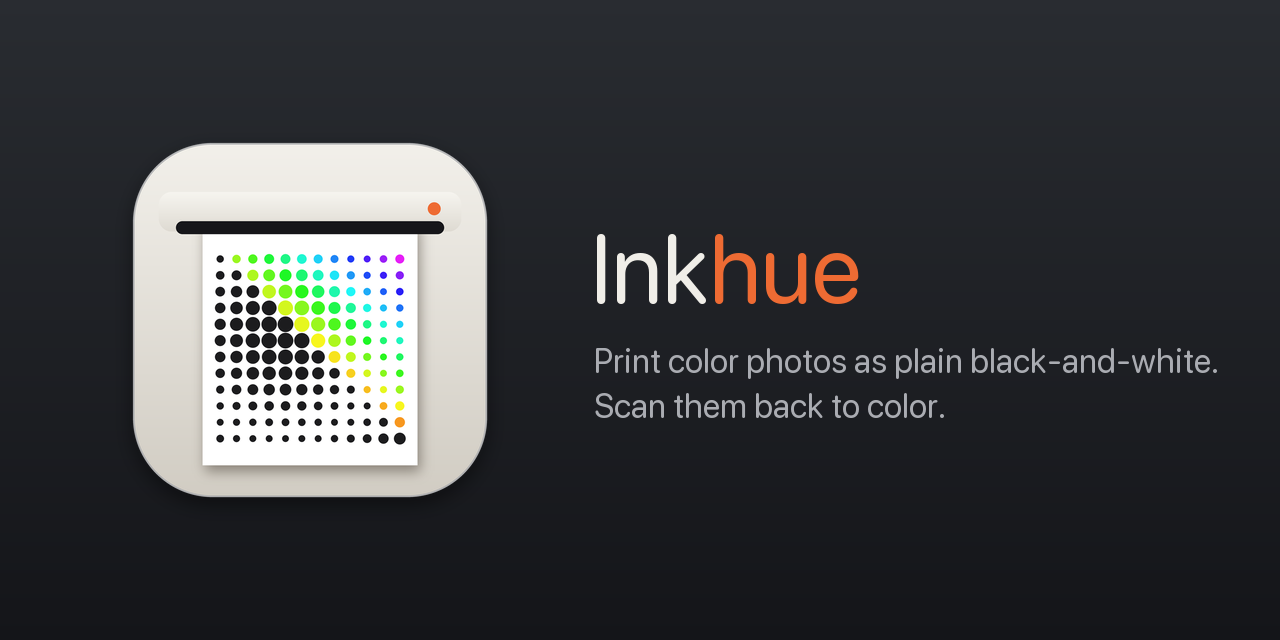
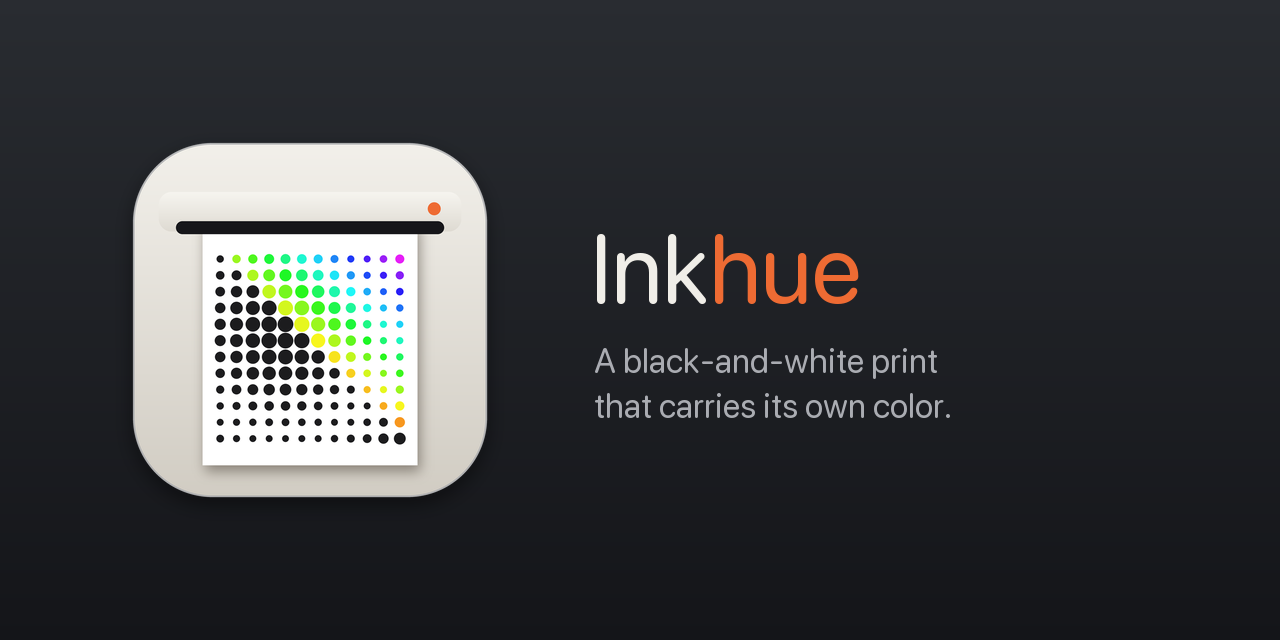
Project website, changelog, code of conduct, new social preview (#21)
* Project website (GitHub Pages), changelog, code of conduct, new social preview

- docs/index.html: a one-page site (hero, reveal animation, gallery, how to
  use, how it works, test results, download), light and dark, mobile-friendly
- CHANGELOG.md for every release so far
- CODE_OF_CONDUCT.md
- Social preview carries the new pitch

* Website: drop the roadmap link

* Website: roadmap section fetched live from issues labelled 'roadmap'

* Website: download button picks the installer for the visitor's system

---------

Changed region(s): [[0.4688, 0.5312, 0.9688, 0.5938], [0.4688, 0.625, 0.75, 0.6562]]

diff --git a/docs/index.html b/docs/index.html
@@ -1,0 +1,163 @@
+<!doctype html>
+<html lang="en">
+<head>
+<meta charset="utf-8">
+<meta name="viewport" content="width=device-width, initial-scale=1">
+<title>Inkhue — a black-and-white print that carries its own color</title>
+<meta name="description" content="Print color photos and documents on any black-and-white printer. Scan them, and Inkhue brings the color back. Free and open source.">
+<meta property="og:title" content="Inkhue">
+<meta property="og:description" content="A black-and-white print that carries its own color.">
+<meta property="og:image" content="https://raw.githubusercontent.com/TonyD365/Inkhue/main/assets/social-preview.png">
+<link rel="icon" href="https://raw.githubusercontent.com/TonyD365/Inkhue/main/assets/icon.png">
+<style>
+:root { --bg:#f6f4ef; --fg:#1d1d20; --muted:#5f6068; --card:#ffffff; --line:#e3e0d8; --accent:#ee6b33; --accent2:#c4511f; }
+@media (prefers-color-scheme: dark) { :root { --bg:#16171a; --fg:#ecebe7; --muted:#a3a4ab; --card:#202227; --line:#2f3138; } }
+* { box-sizing:border-box; }
+body { margin:0; background:var(--bg); color:var(--fg); font:17px/1.6 -apple-system, BlinkMacSystemFont, "Segoe UI", Roboto, sans-serif; }
+a { color:var(--accent); }
+.wrap { max-width:1060px; margin:0 auto; padding:0 20px; }
+header.hero { text-align:center; padding:64px 0 32px; }
+.logo { width:104px; height:104px; }
+h1 { font-size:clamp(40px,7vw,68px); margin:12px 0 4px; letter-spacing:-1px; }
+h1 span { color:var(--accent); }
+.tag { font-size:clamp(20px,3vw,26px); font-weight:600; margin:0 0 10px; }
+.sub { color:var(--muted); max-width:640px; margin:0 auto 26px; }
+.btns { display:flex; gap:12px; justify-content:center; flex-wrap:wrap; }
+.btn { display:inline-block; padding:12px 22px; border-radius:999px; font-weight:700; text-decoration:none; }
+.btn.primary { background:var(--accent); color:#fff; } .btn.primary:hover { background:var(--accent2); }
+.btn.ghost { border:1.5px solid var(--line); color:var(--fg); }
+.reveal { display:block; margin:40px auto 0; width:min(560px,100%); border-radius:14px; box-shadow:0 18px 50px rgba(0,0,0,.25); }
+section { padding:56px 0; border-top:1px solid var(--line); }
+h2 { font-size:30px; margin:0 0 18px; }
+.grid { display:grid; gap:18px; grid-template-columns:repeat(auto-fit,minmax(230px,1fr)); }
+.card { background:var(--card); border:1px solid var(--line); border-radius:14px; padding:20px; }
+.card h3 { margin:0 0 6px; font-size:18px; }
+.card p { margin:0; color:var(--muted); font-size:15px; }
+.done { color:#2e9e5b; font-weight:700; font-size:13px; } .planned { color:var(--accent); font-weight:700; font-size:13px; }
+.num { display:inline-grid; place-items:center; width:30px; height:30px; border-radius:50%; background:var(--accent); color:#fff; font-weight:800; margin-bottom:8px; }
+img.wide { width:100%; border-radius:12px; display:block; }
+.cap { color:var(--muted); font-size:14px; margin-top:8px; text-align:center; }
+table { width:100%; border-collapse:collapse; font-size:15px; }
+td, th { padding:10px 8px; border-bottom:1px solid var(--line); text-align:left; }
+th { color:var(--muted); font-weight:600; }
+footer { padding:40px 0 60px; color:var(--muted); text-align:center; font-size:14px; border-top:1px solid var(--line); }
+</style>
+</head>
+<body>
+<header class="hero wrap">
+  <img class="logo" src="https://raw.githubusercontent.com/TonyD365/Inkhue/main/assets/icon.png" alt="Inkhue icon">
+  <h1>Ink<span>hue</span></h1>
+  <p class="tag">A black-and-white print that carries its own color.</p>
+  <p class="sub">Print a color photo or document on any black-and-white printer — it looks like an ordinary grayscale page. Scan it, and Inkhue brings the color back. Free and open source.</p>
+  <div class="btns">
+    <a class="btn primary" id="dl" href="https://github.com/TonyD365/Inkhue/releases/latest">Download for macOS · Windows · Linux</a>
+    <a class="btn ghost" href="https://github.com/TonyD365/Inkhue">View on GitHub</a>
+  </div>
+  <p class="cap" id="dl-note"></p>
+  <img class="reveal" src="https://raw.githubusercontent.com/TonyD365/Inkhue/main/assets/reveal.gif" alt="A black-and-white printout being scanned back into color">
+</header>
+
+<section class="wrap">
+  <h2>See it</h2>
+  <img class="wide" src="https://raw.githubusercontent.com/TonyD365/Inkhue/main/assets/compare.png" alt="Original, black-and-white print, recovered color">
+  <p class="cap">Original · what gets printed (inset: the actual printer dots) · color recovered from the scan, at 2× resolution.</p>
+  <img class="wide" style="margin-top:28px" src="https://raw.githubusercontent.com/TonyD365/Inkhue/main/assets/gallery.png" alt="Three more examples, one written on with a pen">
+  <p class="cap">Bottom row: written on with a pen — the color still comes back, and the handwriting stays.</p>
+  <img class="wide" style="margin-top:28px" src="https://raw.githubusercontent.com/TonyD365/Inkhue/main/assets/document.png" alt="A page of notes recovered in color">
+  <p class="cap">Documents too: highlights, colored text and charts.</p>
+</section>
+
+<section class="wrap">
+  <h2>How to use</h2>
+  <div class="grid">
+    <div class="card"><div class="num">1</div><h3>Install</h3><p>macOS, Windows or Ubuntu/Debian installer. Updates itself.</p></div>
+    <div class="card"><div class="num">2</div><h3>Hide color</h3><p>Load a photo, image or PDF. Inkhue makes the black-and-white page, as large as your paper allows.</p></div>
+    <div class="card"><div class="num">3</div><h3>Print</h3><p>From Inkhue's print panel at 100 % scale, on any black-and-white printer.</p></div>
+    <div class="card"><div class="num">4</div><h3>Reveal color</h3><p>Scan in grayscale at 600 dpi (400 at least). The color comes back — export it as PNG, JPEG or PDF.</p></div>
+  </div>
+  <img class="wide" style="margin-top:28px; max-width:760px; margin-left:auto; margin-right:auto" src="https://raw.githubusercontent.com/TonyD365/Inkhue/main/assets/screenshot.png" alt="The Inkhue app">
+</section>
+
+<section class="wrap">
+  <h2>How it works</h2>
+  <div class="grid">
+    <div class="card"><h3>Dots carry data</h3><p>Every pixel is a 4×4 cell of printer dots. How many dots are inked sets the gray; which corner the ink leans towards stores 2 bits — about 5.6 KB per square inch.</p></div>
+    <div class="card"><h3>Built to survive</h3><p>Color at 1/8 resolution, Reed-Solomon error correction, repeated across the page and scattered. Smudges, handwriting, tilt and upside-down scans are fine.</p></div>
+    <div class="card"><h3>Neural refiner</h3><p>A small network reads the scan dot by dot and returns the photo at 2× resolution, without grain.</p></div>
+    <div class="card"><h3>Open by design</h3><p>No key, no encryption, no account. Hidden from the eye, not from people. Apache-2.0.</p></div>
+  </div>
+  <p style="margin-top:22px">The full story, step by step, is in the <a href="https://github.com/TonyD365/Inkhue#how-it-works">README</a> and the <a href="https://github.com/TonyD365/Inkhue/wiki">wiki</a>.</p>
+</section>
+
+<section class="wrap" id="roadmap">
+  <h2>Roadmap</h2>
+  <div class="grid" id="roadmap-items"><p class="cap" style="text-align:left">Loading…</p></div>
+  <p class="cap" style="text-align:left">Live from GitHub: issues labelled <code>roadmap</code>.</p>
+</section>
+
+<section class="wrap">
+  <h2>Tested</h2>
+  <table>
+    <tr><th>Condition (simulated print + scan)</th><th>Decoded</th><th>Color error ΔE</th></tr>
+    <tr><td>Typical print and scan</td><td>100 %</td><td>2.5</td></tr>
+    <tr><td>Scan at 400 dpi</td><td>100 %</td><td>3.3</td></tr>
+    <tr><td>Handwriting on the page</td><td>100 %</td><td>3.3</td></tr>
+    <tr><td>Poor print and poor scan</td><td>80 %</td><td>6.7</td></tr>
+  </table>
+  <p class="cap">ΔE ≈ 2 is barely visible. Tried it on a real printer? <a href="https://github.com/TonyD365/Inkhue/issues/new?template=print-scan-report.yml">Share your result</a>.</p>
+</section>
+
+<footer class="wrap">
+  Inkhue is free and open source (Apache-2.0) ·
+  <a href="https://github.com/TonyD365/Inkhue">GitHub</a> ·
+  <a href="https://github.com/TonyD365/Inkhue/discussions">Discussions</a> ·
+  <a href="https://github.com/TonyD365/Inkhue/blob/main/README.zh-CN.md">中文</a>
+</footer>
+<script>
+// Download button: pick the installer for this visitor's system from the latest release.
+(async () => {
+  const btn = document.getElementById("dl"), note = document.getElementById("dl-note");
+  const ua = navigator.userAgent, plat = (navigator.userAgentData && navigator.userAgentData.platform) || navigator.platform || "";
+  let os = /Win/i.test(plat + ua) ? "windows" : /Mac/i.test(plat + ua) ? "macos" : /Linux|X11/i.test(plat + ua) && !/Android/i.test(ua) ? "linux" : null;
+  if (!os) return;  // phones, tablets, unknown: keep the general link
+  let arch = "x64";
+  if (os === "macos") {
+    try {  // Chrome/Edge tell the CPU architecture; Safari doesn't, and nearly every Mac sold since 2021 is Apple silicon
+      const h = navigator.userAgentData && await navigator.userAgentData.getHighEntropyValues(["architecture"]);
+      arch = h && h.architecture === "x86" ? "x64" : "arm64";
+    } catch (e) { arch = "arm64"; }
+  }
+  const key = `${os}-${arch}`;
+  const label = {"macos-arm64": "macOS (Apple silicon)", "macos-x64": "macOS (Intel)", "windows-x64": "Windows", "linux-x64": "Ubuntu / Debian"}[key];
+  try {
+    const rel = await (await fetch("https://api.github.com/repos/TonyD365/Inkhue/releases/latest")).json();
+    const ext = os === "macos" ? ".pkg" : os === "windows" ? "-setup.exe" : ".deb";
+    const asset = (rel.assets || []).find(a => a.name.includes(key) && a.name.endsWith(ext));
+    if (!asset) return;
+    btn.href = asset.browser_download_url;
+    btn.textContent = `Download for ${label} · ${rel.tag_name}`;
+    const other = os === "macos" ? (arch === "arm64" ? "Intel Mac" : "Apple silicon Mac") + ", " : "";
+    note.innerHTML = `${(asset.size / 1048576).toFixed(0)} MB · free. <a href="https://github.com/TonyD365/Inkhue/releases/latest">${other}Windows, Linux and other versions</a>`;
+  } catch (e) { /* keep the general link */ }
+})();
+
+// Roadmap, fetched live: open issues labelled "roadmap" are planned, closed-as-completed ones are done.
+(async () => {
+  const box = document.getElementById("roadmap-items");
+  const esc = t => t.replace(/[&<>"]/g, c => ({"&": "&amp;", "<": "&lt;", ">": "&gt;", '"': "&quot;"}[c]));
+  try {
+    const r = await fetch("https://api.github.com/repos/TonyD365/Inkhue/issues?labels=roadmap&state=all&per_page=50");
+    if (!r.ok) throw new Error(r.status);
+    const items = (await r.json()).filter(i => !i.pull_request && !(i.state === "closed" && i.state_reason !== "completed"));
+    if (!items.length) { box.innerHTML = '<p class="cap" style="text-align:left">The roadmap will be published soon.</p>'; return; }
+    items.sort((a, b) => (a.state === b.state ? 0 : a.state === "open" ? -1 : 1));
+    box.innerHTML = items.map(i => `<a class="card" href="${i.html_url}" style="text-decoration:none;color:inherit">
+      <span class="${i.state === "open" ? "planned" : "done"}">${i.state === "open" ? "PLANNED" : "✓ DONE"}</span>
+      <h3>${esc(i.title)}</h3></a>`).join("");
+  } catch (e) {
+    box.innerHTML = '<p class="cap" style="text-align:left">See the <a href="https://github.com/TonyD365/Inkhue/issues?q=label%3Aroadmap">roadmap on GitHub</a>.</p>';
+  }
+})();
+</script>
+</body>
+</html>

diff --git a/scripts/make_icon.py b/scripts/make_icon.py
@@ -102,7 +102,7 @@ def social(icon_img):
             continue
     d.text((590, 210), "Ink", font=font, fill=(240, 238, 232))
     d.text((590 + d.textlength("Ink", font=font), 210), "hue", font=font, fill=ACCENT)
-    d.text((594, 340), "Print color photos as plain black-and-white.\nScan them back to color.",
+    d.text((594, 340), "A black-and-white print\nthat carries its own color.",
            font=small, fill=(170, 172, 178), spacing=12)
     return bg.convert("RGB")
 

diff --git a/CHANGELOG.md b/CHANGELOG.md
@@ -1,0 +1,27 @@
+# Changelog
+
+Every release is on [GitHub Releases](https://github.com/TonyD365/Inkhue/releases) with installers for macOS,
+Windows and Linux. Pages printed with any version decode with every later version.
+
+## 1.2.1
+- Scans at **400 dpi** decode reliably (was 1200 dpi): the page grid is measured from the timing track's spectrum,
+  and the dots are read with cubic interpolation. Poor prints and scans decode about twice as often.
+- Recommended scan: 600 dpi, at least 400.
+
+## 1.2.0
+- **Documents** (mostly white pages) work: every cell keeps at least one dot so blank paper carries data.
+- Neural refiner retrained on photos plus documents: page color error on a real worksheet nearly halved.
+- Damaged areas stay gray instead of random color; upside-down and sideways scans decode.
+- Clear messages for pages without hidden color and for too-coarse scans; scanner and secure-print hints.
+
+## 1.1.1
+- Maintenance: CI and pull-request labelling fixes. No changes to the app.
+
+## 1.1.0
+- **ColorHide is now Inkhue.**
+- Refiner retrained on 8× more photos; pen strokes across the frame no longer stop decoding.
+- *Fill the paper*, a live print preview with all print settings, faster decoding.
+
+## 1.0.0
+- First release: hide a photo's color in a black-and-white print and recover it from a scan; printer-style app,
+  installers, automatic updates.

diff --git a/CODE_OF_CONDUCT.md b/CODE_OF_CONDUCT.md
@@ -1,0 +1,15 @@
+# Code of conduct
+
+Inkhue is a small, friendly project. Everyone is welcome here — whatever your experience, background or language.
+Questions in Chinese, English or any other language are fine.
+
+**Please**
+- be kind and patient, especially with people who are new to open source;
+- assume good intent, and critique ideas, not people;
+- share real results honestly, including the ones that didn't work.
+
+**Not acceptable:** harassment, insults, discrimination, personal attacks, or publishing someone's private information.
+
+If something here makes you uncomfortable, contact the maintainer privately through
+[a security advisory](https://github.com/TonyD365/Inkhue/security/advisories/new) or by email on the maintainer's
+GitHub profile. Reports are kept confidential. Maintainers may remove content or block people who break these rules.
